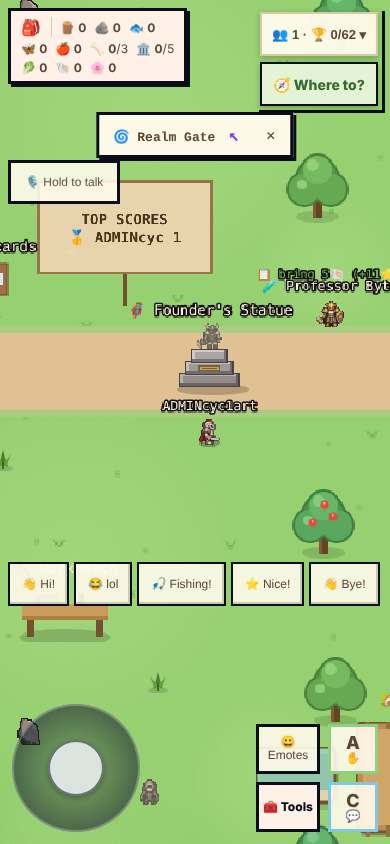
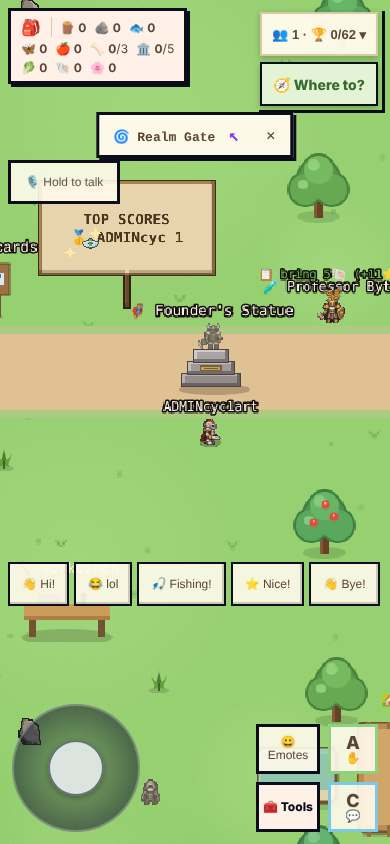
Town TOP SCORES board: building finish; cycle 1 art notes: W-06 height table, test results
Claude-Session: https://claude.ai/code/session_01YYUkojBS4xUfZdkLhLvWtx

diff --git a/game/tests/cyc1-art-town-buildings.test.js b/game/tests/cyc1-art-town-buildings.test.js
@@ -1,5 +1,5 @@
 // Cycle 1 art (G), T-BLD "Town buildings are flat fills with no outline": the baked building textures (shop, museum, Able Sisters,
-// turnip stand, windmill, Polyroll booth, guestbook) get a pixel finish ONCE at create: alpha snapped to 0/255, a 1 px colour-matched
+// turnip stand, windmill, Polyroll booth, guestbook) and the TOP SCORES board get a pixel finish ONCE at create: alpha snapped to 0/255, a 1 px colour-matched
 // dark outline outside the silhouette, bottom / right shade and a top-left rim light, plus an eave shadow under the three roofs.
 // ?bldfinish=0 = the old flat look.
 // Serve the repo root first:  python3 -m http.server 8440 &
@@ -44,9 +44,9 @@ async function sample(browser, q) {
   const browser = await chromium.launch();
   const on = await sample(browser, '');
   const off = await sample(browser, '?bldfinish=0');
-  check('default: 7 building textures finished at create', on.st && on.st.on && on.st.count === 7, JSON.stringify(on.st));
-  check('default: every named building recorded', on.st && ['shop', 'museum', 'able', 'turnip', 'windmill', 'polyroll', 'guestbook'].every((n) => on.st.names.indexOf(n) >= 0), JSON.stringify(on.st && on.st.names));
-  check('default: outline pixels were added (>= 1500 over the 7 textures)', on.st && on.st.outline >= 1500, String(on.st && on.st.outline));
+  check('default: 8 building / board textures finished at create', on.st && on.st.on && on.st.count === 8, JSON.stringify(on.st));
+  check('default: every named building recorded', on.st && ['shop', 'museum', 'able', 'turnip', 'windmill', 'polyroll', 'guestbook', 'board'].every((n) => on.st.names.indexOf(n) >= 0), JSON.stringify(on.st && on.st.names));
+  check('default: outline pixels were added (>= 1500 over the 8 textures)', on.st && on.st.outline >= 1500, String(on.st && on.st.outline));
   check('default: the finish is a one-off create cost (< 250 ms in total)', on.st && on.st.ms < 250, String(on.st && on.st.ms));
   check('default: shop texture has no soft alpha fringe (0 semi-alpha px)', on.shop && on.shop.semi === 0, JSON.stringify(on.shop));
   check('default: shop texture has a dark outline / shade band (>= 400 dark px)', on.shop && on.shop.dark >= 400, JSON.stringify(on.shop));

diff --git a/game/main.js b/game/main.js
@@ -9754,7 +9754,7 @@ class TownScene extends Phaser.Scene {
     // W-06 (b12-06): a bigger board and 12 px text rendered at 2x, so TOP SCORES reads (cap height >= 8 screen px at both zooms; was 8 px, smeared).
     g.fillStyle(0xe8d9b5, 1).fillRect(x - 72, y - 78, 144, 76);
     g.lineStyle(2, 0x8f7044, 1).strokeRect(x - 72, y - 78, 144, 76);
-    g.bake();
+    g.bake({ finish: 'board' }); // cycle 1 art: same outline / depth finish as the buildings
     this.noticeBoardText = this.add.text(x, y - 40, '', {
       fontSize: '12px',
       fontFamily: 'monospace',

diff --git a/game/design/beta/cycle1-art.md b/game/design/beta/cycle1-art.md
@@ -19,28 +19,38 @@ counts as "missing"); M03 rimewolf stays unwired while `shared-mm-creature-strip
 | T-BLD Town buildings flat, no outline | `bakedGfx().bake({ finish })` + `finishBakedTexture` (main.js): once at create, the shop, museum, Able Sisters, turnip stand, windmill, Polyroll booth and guestbook textures get alpha snapped to 0/255, a 1 px colour-matched outline OUTSIDE the silhouette (30% of the darkest neighbour, never black; the cycle 0 creature / icon rule), shade on the bottom 4 px and right 3 px, a lit top-left rim, and an eave shadow under the three roofs. Town 1x. 7 textures, measured create cost < 250 ms total (one-off). `?bldfinish=0` = flat. | `tests/cyc1-art-town-buildings.test.js` ALL PASSED (7 finished, >= 1500 outline px, shop 0 semi-alpha px, >= 400 dark px; `?bldfinish=0` 3x fewer dark px). Fails before: no `bldFinish`. Shots `cyc1-art-town-{before,after}-{d,p}.jpg`. |
 | R03 round tree canopies (Realm prop_tree_medium / small) | Bake step in realm-world.js: the canopy rows of the two strips are re-drawn from an original clump map (4-6 overlapping leaf clumps, dark seams, top-left light, scalloped outline; the medium canopy now reaches its trunk instead of floating 4 px above it). Colours taken from the strip itself (outline / dark / mid / light leaf), trunk rows untouched, a strip of another size is left alone, cached per strip (2-7 ms once). `?treefix=0` = R03 pixels. | `tests/cyc1-art-realm-fields.test.js` ALL PASSED: solidity (area / convex hull) 0.944 -> 0.927 medium, 0.932 -> 0.915 small, edge turns 4 -> 8 / 4 -> 6, no new colours, 0 semi-alpha, trunk identical, canopy area +-15%, fixed trees drawn into chunks; `?treefix=0` identical to R03. Shot `cyc1-art-trees-cmp-d.jpg` (R03 left, fixed right, 6x). |
 | Realm grass fields calm on phone | `fieldDetail` in the existing chunk detail pass: seeded flowers (3x3 plus in 5 petal colours, 10% of grass tiles, 34% on meadow, none on dark grass), pebbles (2x2 with light / dark pixel) and dark tufts; square clusters only (bullets stay the only bright round shapes), never on solid or water. Measured: 0.2-1.1 ms per chunk on average for the pass alone (worst single chunk 0.7-3.4 ms; one 16 ms outlier seen once under machine load, a GC pause), whole chunk bake 10-20 ms. `?fielddetail=0` = off. | same test: flowers / pebbles / tufts > 10 in a 7x7-chunk block, mean field cost < 8 ms per chunk, `?fielddetail=0` places nothing. `beta-w03-terrain` ALL PASSED. Shots `cyc1-art-realm-{before,after}-{d,p}.jpg`. |
+| TOP SCORES board flat (audit) | The Town leaderboard board gets the same `bake({ finish: 'board' })`. | `cyc1-art-town-buildings` ALL PASSED (8 textures incl. board); `beta-w06-town-board` ALL PASSED (board text still readable). Shots `cyc1-art-town-after-*` (re-shot). |
 | Hit feedback (Isles) | The hit flash was a white circle laid over the creature and the ground round it. Now the creature's own white silhouette (PNG strip or code frame), fading over the 0.12 s flash; white copies built once per source canvas on the first hit (WeakMap). Measured per-frame cost 0.3-0.4 ms per flashing creature including the first-hit build, one extra blit after that. `?hitflash=0` = circle. | `tests/cyc1-art-isles-hitflash.test.js` ALL PASSED (meadow PNG: silhouette, 0 circles; tundra code-drawn: silhouette; `?hitflash=0`: circle, no silhouette; cost < 1 ms). Shots `cyc1-art-isles-hit-{before,after}-{d,p}.jpg`. |
 
 Existing tests run after the changes: `beta-w03-terrain` ALL PASSED; `r4-d2-art` 1 FAIL "first-hero pick: class sprite applied within
 3 s (W-01) ms=12920" (hero class-art load timing on a loaded 4-core box; no terrain / prop check failed; not touched by this branch:
-needs a solo rerun by the coordinator). `isle-creature-art` ALL PASSED. `archipelago-perf` ALL PASSED (low tier frame work median
+needs a solo rerun by the coordinator). `isle-creature-art` ALL PASSED. Town: `town-front-door`, `cyc0-town-interact-shadow` ALL PASSED; `beta-s07-town-cull` failed once
+("game-owned visible flags untouched by culling", load factor 4.8) and PASSED on a solo rerun, and PASSED on a 86eda4b archive: load flake. `archipelago-perf` ALL PASSED (low tier frame work median
 0.8 ms p95 4.2 ms, default median 1.5 p95 4.7, 132 / 98 draw calls: per-frame Isles work unchanged within noise).
 
 ## Not resolved
-- Isles creature scale (W-06): measured, not changed. In-game standing height of PNG S-class strips differs by 38%: meadow
-  `bumble_mote` (S) 33 px tall / 22 px span, jungle `canopy_glider` (S, spawned as "shellback") 46 px tall / 47 px span in a 64 px
-  cell. The scale hook (scales.json `display_scale`) is per asset id; picking per-kind factors needs the full table across all isles
-  and a check against the hitbox / name-label tests. Next cycle: measure every kind with `__isles.stripSize`, then set display_scale.
+- Isles creature scale (W-06): measured every loaded PNG kind, not changed. Standing height on screen (idle, facing down,
+  `__isles.stripSize`: anchor y - top opaque row, px at 1x):
+  | Isle | kinds (px) |
+  |------|-----------|
+  | meadow | pebble_tortle 21, puffwool 28, bumble_mote 33, clover_hopper 36, thistle_boar 39, meadow_strider 82, oakback 105 |
+  | jungle | glimmerfrog 39, vinecoil 44, chompbill 46, canopy_glider 46, fernraptor 52, tusktop 67, fernjaw_tyrant 72, stegolith 98 |
+  | reef | reef_puffer 31, fin_raider 35, shellcrab 33, glowjelly 36, skimray 58, tidesteed 73, tide_hydra 105, isleback_turtle 108 |
+  | tundra | frostfox 30, rimewolf 36, pengling 38 (rest code-drawn); mars: all code-drawn |
+  Reading against the W-06 table (S 32-48): pebble_tortle 21, puffwool 28 and frostfox 30 are under the S floor; the jungle small
+  set (39-52, fernraptor 52 over) runs ~30% taller than the meadow / reef / tundra smalls (28-38), so a jungle "small" stands as tall
+  as a meadow medium. Not fixed in code: the only scale hook for strips is `MMCreatureStrips.draw(..., scale)`, and the strips are
+  drawn at exactly 1/4 of a 4x cell so every art pixel is one screen pixel; any factor between 1 and 2 (32/21 = 1.52 for the tortle,
+  0.75 for the jungle set) makes uneven pixel rows (ART-HANDOFF: never rescale pixel art by a non-integer). Not safe -> Codex ask.
 - Idle / death polish: not started (time box).
 
 ## 4. Consistency audit (cycle 1 pass: Town, Hub, Realm shore, Isles meadow / jungle / tundra boss, 1280x720 and 390x844)
 Three worst remaining, worst first:
-1. **Town trees and signs are still the soft round-ball look** next to the now outlined buildings and the clumped Realm trees: the
-   code-drawn Town fruit trees are a single circle canopy on a stick, and the TOP SCORES board / Realm Gate sign are flat light rectangles
-   with no outline (shots `cyc1-art-town-after-*`). Fix: the same `bake({ finish })` on the board / sign (cheap, next cycle) and a
-   clumped canopy for the Town tree bake (the clump-map approach used here).
-2. **Isles creature scale (W-06)**: S-class strips range 33-46 px tall on screen (above); a 46 px "small" glider stands taller than
-   the 48 px hero cell's figure. Fix: per-kind `display_scale` from one measured table (not done this cycle).
+1. **Town signs and labels**: world labels still mix emoji glyphs with pixel text and collide (Professor Byte quest line over the
+   Founder's Statue label, "Shop" / "+50% today"), and the Realm Gate sign is a flat card. The TOP SCORES board got the building finish
+   this cycle (F, `bake({ finish: 'board' })`, `beta-w06-town-board` ALL PASSED); label layout is U's lane (main.js label positions).
+2. **Isles creature scale (W-06)**: S-class strips range 21-52 px tall on screen (table above); a jungle "small" stands as tall as a
+   meadow medium. Fix: redraws of the out-of-range kinds at the table heights (Codex ask below); a code rescale is not pixel-safe.
 3. **Large calm fields on Isles (R02) and jungle black ground on phone**: Hearth Isle grass and jungle floor still read as wide single
    tones at 390x844 (`cyc1-art-isles-jungle-before-p.jpg`). Realm got the field pass this cycle; Isles has its own detail pass
    (cycle 0, `MMIsleArt.detail`) whose density could take the same flower / pebble clusters. Real fix: the R02 ground redo (Codex).
@@ -52,4 +62,5 @@ Still open from cycle 0: #4 Town label collisions (U lane).
   shows the target silhouette: `cyc1-art-trees-cmp-d.jpg`); same ids / cells / anchors, then `?treefix=0` becomes the default.
 - Town building set (T-BLD): shop, museum, Able Sisters, turnip stand at Town 1x with true outlines and roof texture; the code finish is a
   stopgap.
-- Isles: confirm intended standing heights per size class (W-06 table) so `display_scale` can be set per kind.
+- Isles W-06: redraw to the table heights (S 32-48 standing px at 1x): pebble_tortle (21), puffwool (28), frostfox (30) up; the jungle
+  small set (chompbill 46, canopy_glider 46, fernraptor 52) down toward 36-40 so jungle and meadow smalls match. Same ids / anchors.
